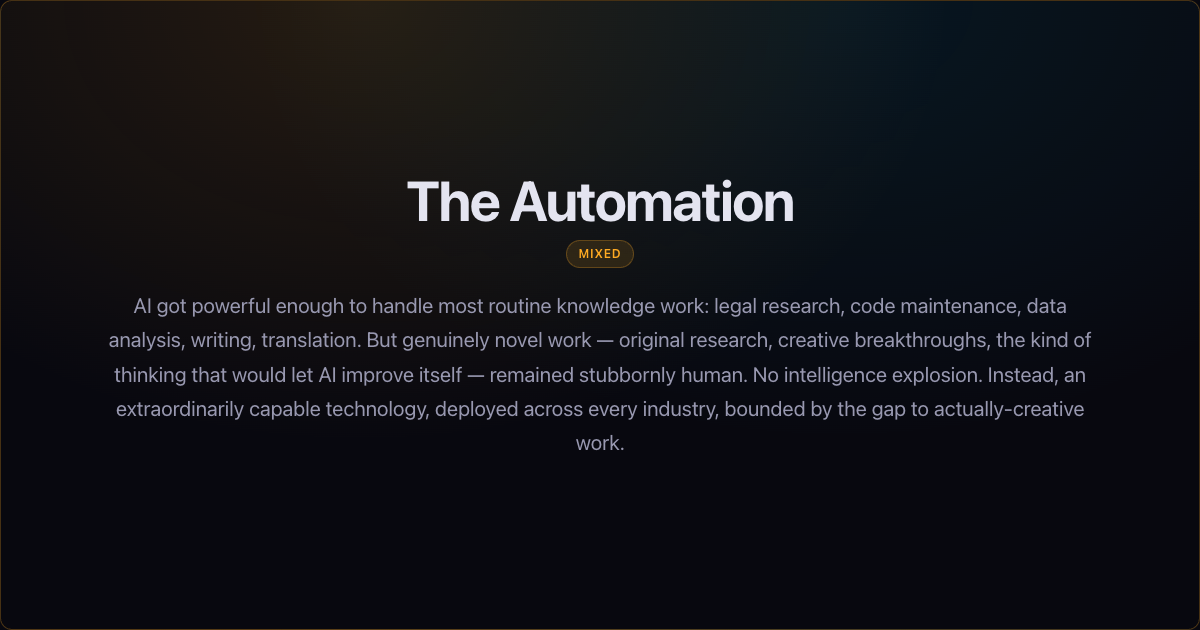
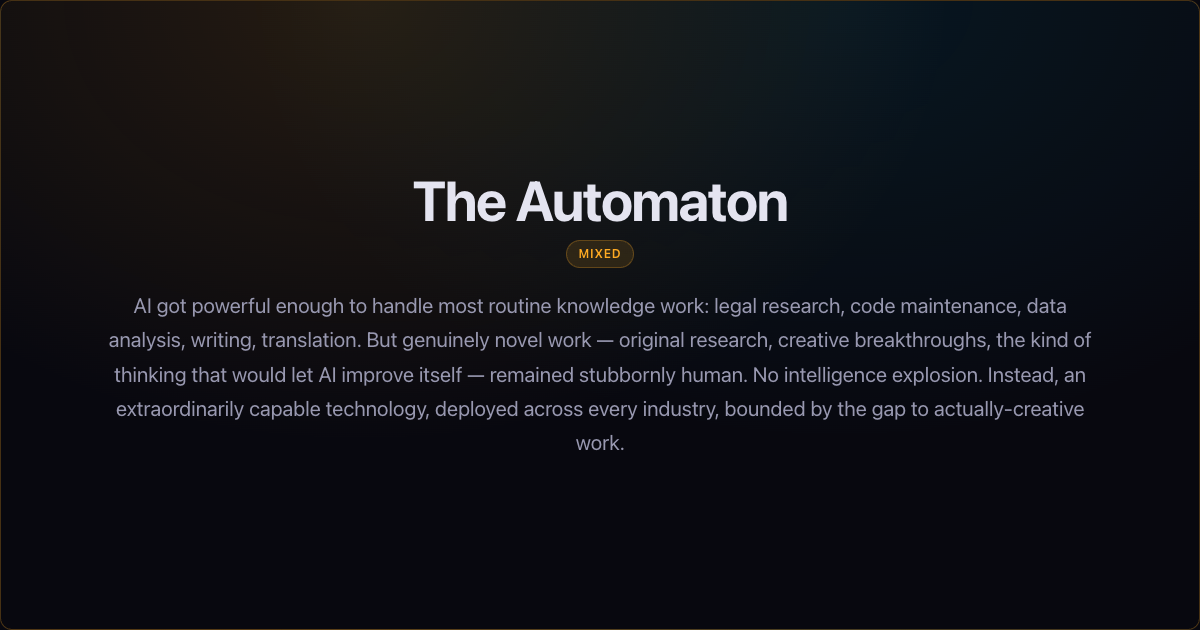
update outcome title

Changed region(s): [[0.3392, 0.2714, 0.6783, 0.3619]]

diff --git a/share/the-automation.html b/share/the-automation.html
@@ -3,18 +3,18 @@
 <head>
     <meta charset="UTF-8">
     <meta name="viewport" content="width=device-width, initial-scale=1.0">
-    <title>The Automation — Singularity Possibilities Map</title>
-    <meta name="description" content="The Automation — AI got powerful enough to handle most routine knowledge work: legal research, code maintenance, data analysis, writing, translation. But genuinely novel work — original research, c...">
+    <title>The Automaton — Singularity Possibilities Map</title>
+    <meta name="description" content="The Automaton — AI got powerful enough to handle most routine knowledge work: legal research, code maintenance, data analysis, writing, translation. But genuinely novel work — original research, cr...">
     <meta property="og:type" content="website">
     <meta property="og:url" content="https://es92.github.io/Singularity-Map/share/the-automation.html">
     <meta property="og:title" content="Singularity Possibilities Map: See what your AI future could be">
-    <meta property="og:description" content="I got: The Automation">
+    <meta property="og:description" content="I got: The Automaton">
     <meta property="og:image" content="https://es92.github.io/Singularity-Map/share/images/the-automation.png">
     <meta property="og:image:width" content="1200">
     <meta property="og:image:height" content="630">
     <meta name="twitter:card" content="summary_large_image">
     <meta name="twitter:title" content="Singularity Possibilities Map: See what your AI future could be">
-    <meta name="twitter:description" content="I got: The Automation">
+    <meta name="twitter:description" content="I got: The Automaton">
     <meta name="twitter:image" content="https://es92.github.io/Singularity-Map/share/images/the-automation.png">
     <style>
         :root{
@@ -185,7 +185,7 @@
     <div class="wrap">
         <div class="lead">I got</div>
         <div class="card">
-            <h1 class="title">The Automation</h1>
+            <h1 class="title">The Automaton</h1>
             
             <span class="mood-badge">mixed</span>
             <div class="summary">AI got powerful enough to handle most routine knowledge work: legal research, code maintenance, data analysis, writing, translation. But genuinely novel work — original research, creative breakthroughs, the kind of thinking that would let AI improve itself — remained stubbornly human. No intelligence explosion. Instead, an extraordinarily capable technology, deployed across every industry, bounded by the gap to actually-creative work.</div>
